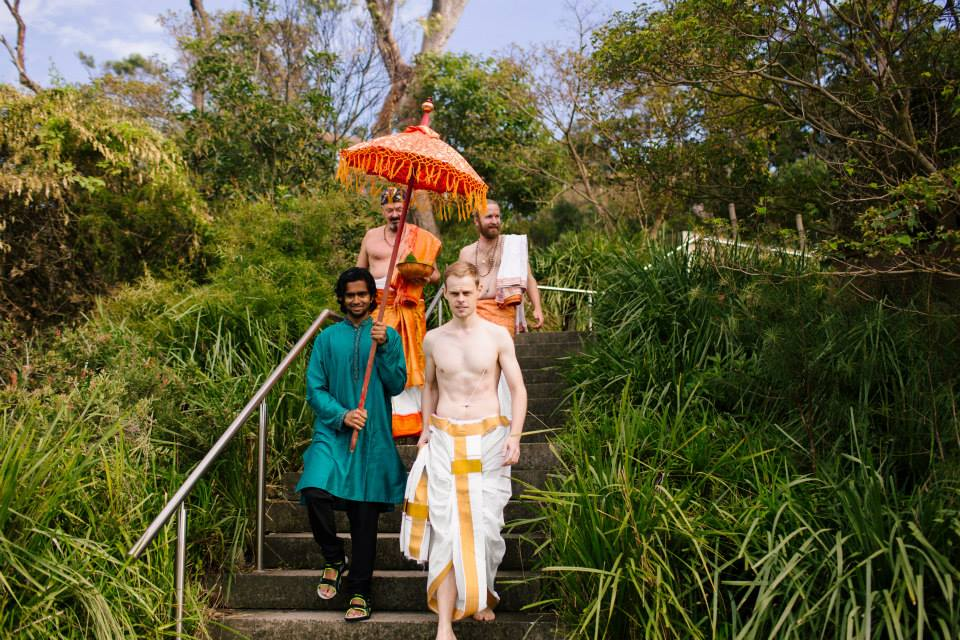
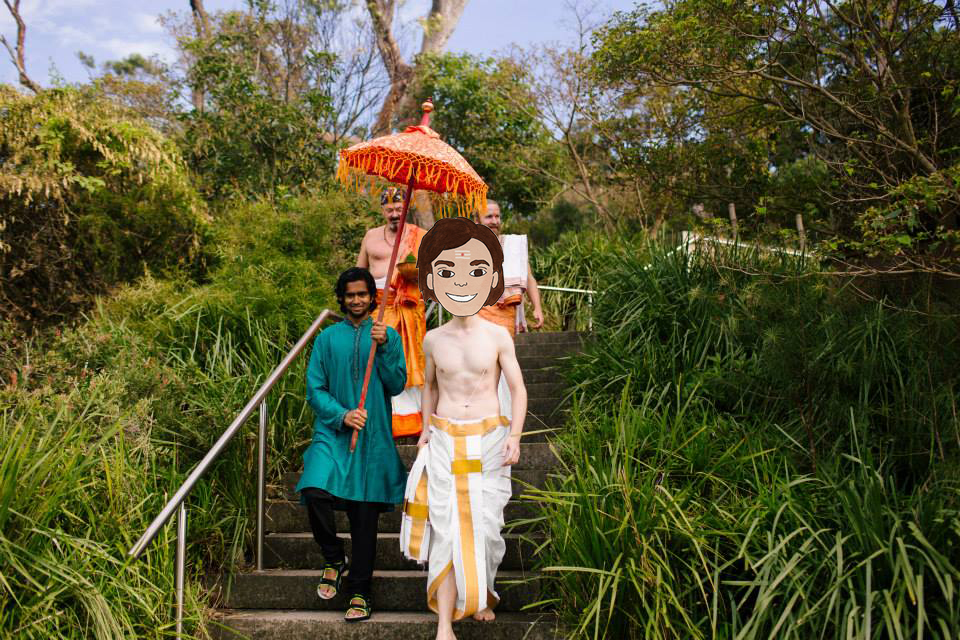
Update images with Ryan and Ami's faces

Changed region(s): [[0.4375, 0.3125, 0.5312, 0.5]]

diff --git a/README.md b/README.md
@@ -36,7 +36,7 @@ vi backend/.env
 
 NOTE: You'll require the correct AWS credentials configured in your user account in order to deploy.
 
-`yarn run deploy`
+`yarn deploy`
 
 Or individual components:
 
